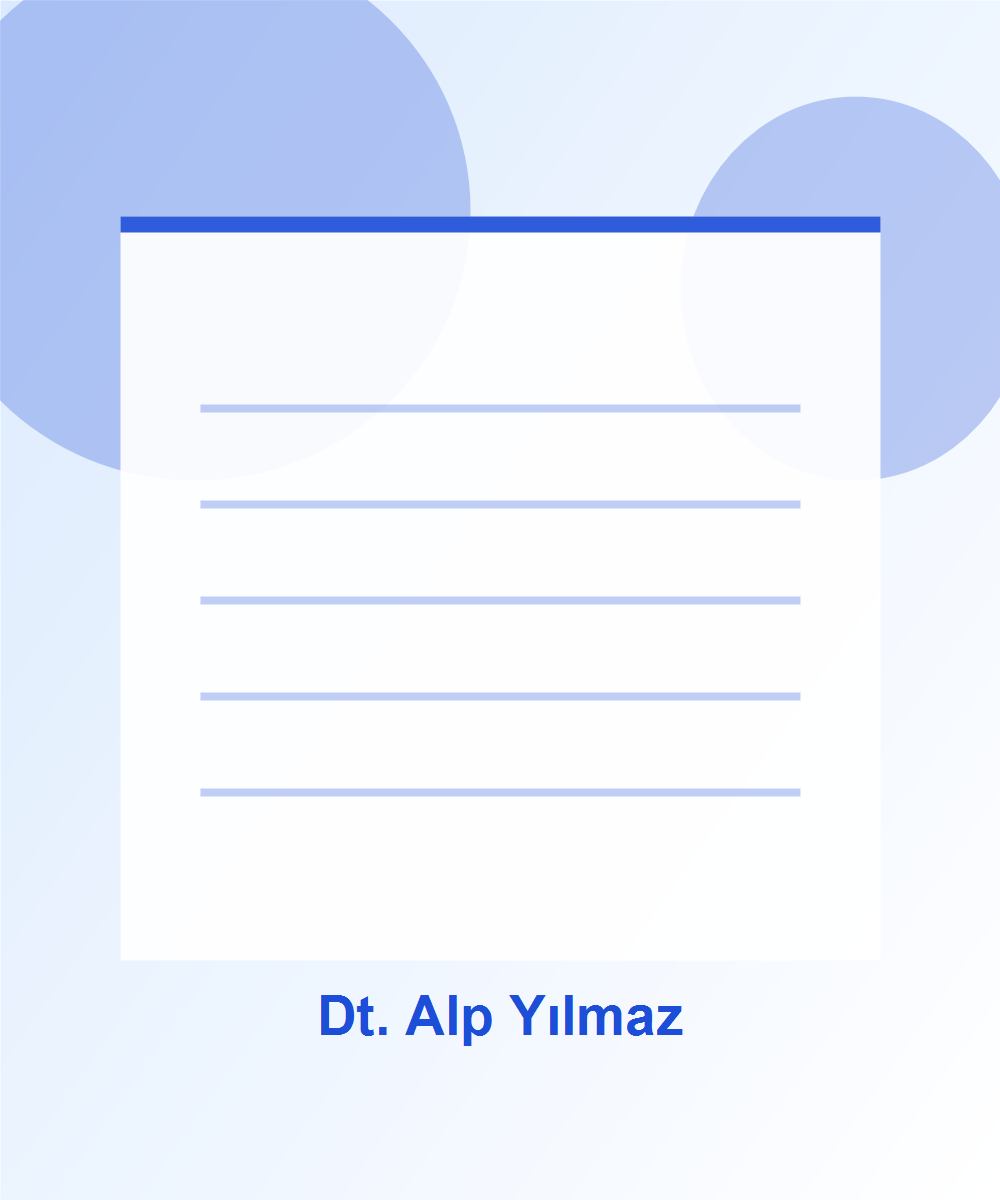
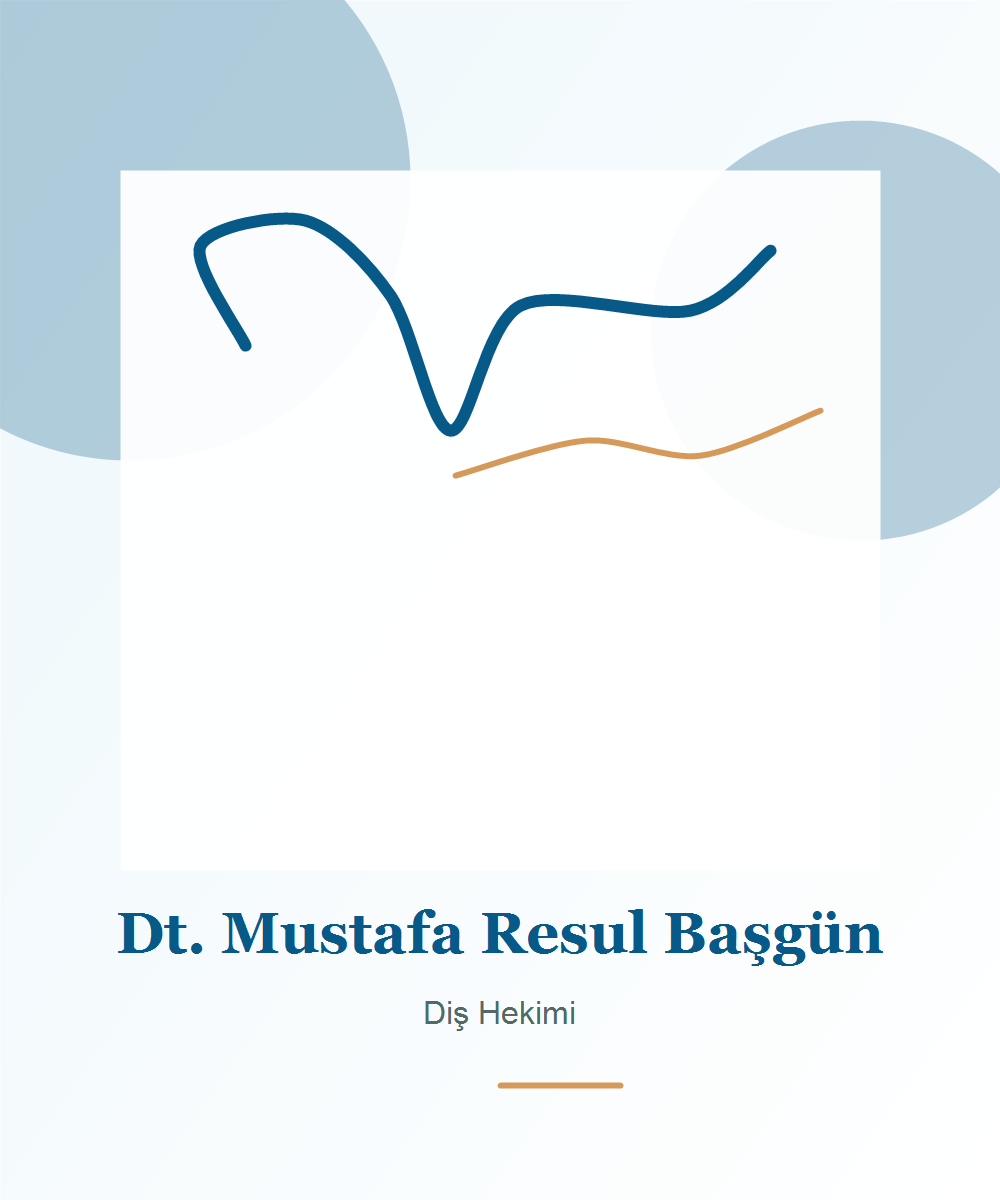
Fix Mustafa demo doctor image

diff --git a/data/clinics.ts b/data/clinics.ts
@@ -169,8 +169,7 @@ export const clinics = {
       "https://images.unsplash.com/photo-1606811971618-4486d14f3f99?auto=format&fit=crop&w=1600&q=85",
     aboutImage:
       "https://images.unsplash.com/photo-1629909613654-28e377c37b09?auto=format&fit=crop&w=1400&q=85",
-    doctorImage:
-      "https://images.unsplash.com/photo-1559839734-2b71ea197ec2?auto=format&fit=crop&w=900&q=85",
+    doctorImage: "/demos/mustafa-resul-basgun/doctor.png",
     primaryColor: "#075a88",
     secondaryColor: "#eef7fb",
     services: [
